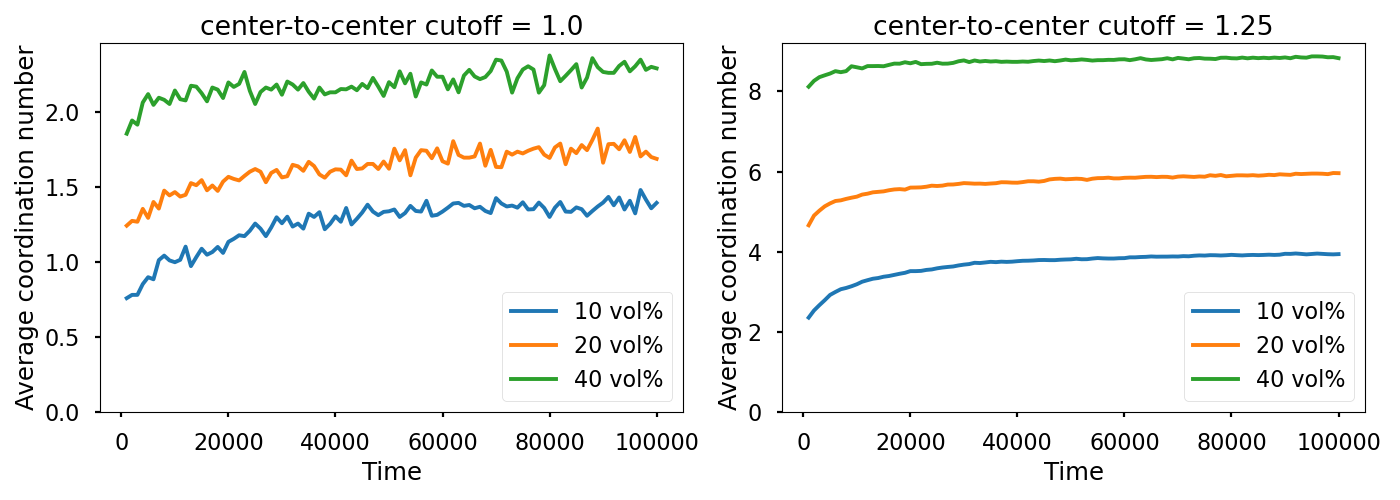
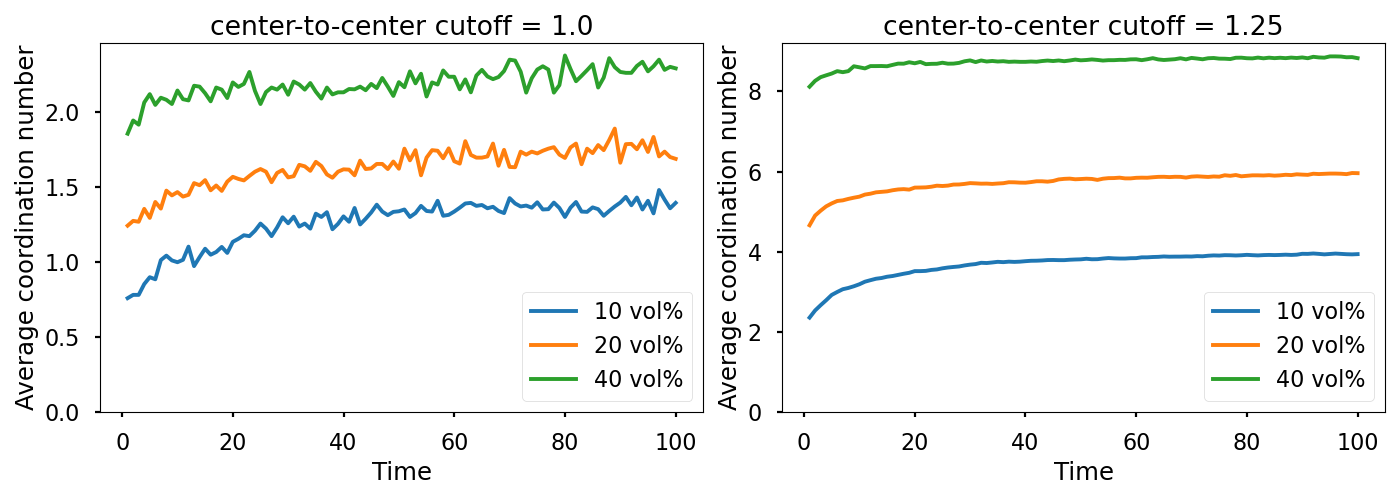
reorganized coordination number plots

diff --git a/volumefrac_neighbors/bneighbors.py b/volumefrac_neighbors/bneighbors.py
@@ -12,7 +12,7 @@ def plotpng(quantity,ylabel,log,types,cutoff):
         columns = ["ac"+str(c) for c in types]
         data = pd.read_csv(file,  sep=" ",skiprows=2, names=["time",*columns])
         for j,t in enumerate(types):
-            ax[j].plot(data["time"][:100],data[columns[j]][:100],label=f"{vf} vol%")
+            ax[j].plot(data["time"][:100]*0.001,data[columns[j]][:100],label=f"{vf} vol%")
     for j,t in enumerate(types):
         ax[j].set_ylim([0,None])
         ax[j].set_xlabel("Time")
@@ -28,5 +28,5 @@ def plotpng(quantity,ylabel,log,types,cutoff):
 types = [1,2]
 diams = [1.0, 0.5]
 
-plotpng("avgcoord", "Average coordination number", False, types, 1.00)
-plotpng("avgcoord", "Average coordination number", False, types, 1.25)
+plotpng("avgcoord", "Average coordination number", False, types, 1.00) # c-to-c
+plotpng("avgcoord", "Average coordination number", False, types, 0.25) # s-to-s

diff --git a/volumefrac_neighbors/mneighbors.py b/volumefrac_neighbors/mneighbors.py
@@ -16,7 +16,7 @@ def plotpng(quantity,ylabel,log,cutoffs,sc):
         for i,cutoff in enumerate(cutoffs):
             if i>=sc:
                 ax[i-sc].set_title(f"center-to-center cutoff = {cutoff}")
-                ax[i-sc].plot(data["time"][:100],data[columns[i]][:100],label=f"{vf} vol%")
+                ax[i-sc].plot(data["time"][:100]*0.001,data[columns[i]][:100],label=f"{vf} vol%")
     for i in range(2):
         ax[i].set_ylim([0,None])
         ax[i].set_xlabel("Time")
